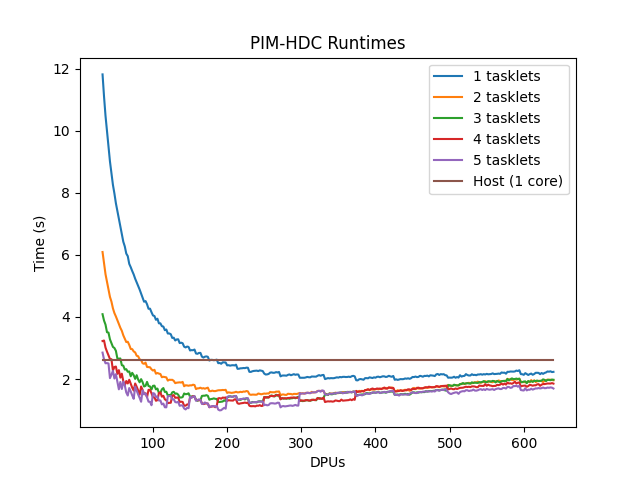
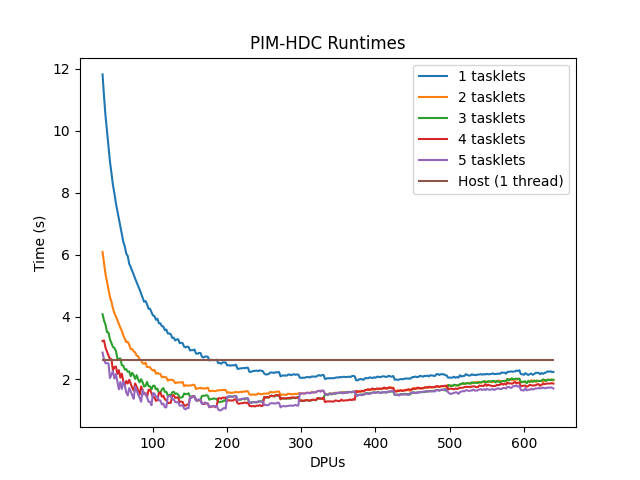
Change host label to one thread

diff --git a/tools/chartgen/runtimechart.py b/tools/chartgen/runtimechart.py
@@ -50,7 +50,7 @@ def generate_plots(
     list_dpus = list(nr_dpu_uniq)
     list_dpus.sort()
 
-    plots[f"Host (1 core)"] = [average_host for _ in range(0, len(list_dpus))]
+    plots[f"Host (1 thread)"] = [average_host for _ in range(0, len(list_dpus))]
 
     return list_dpus, plots
 
